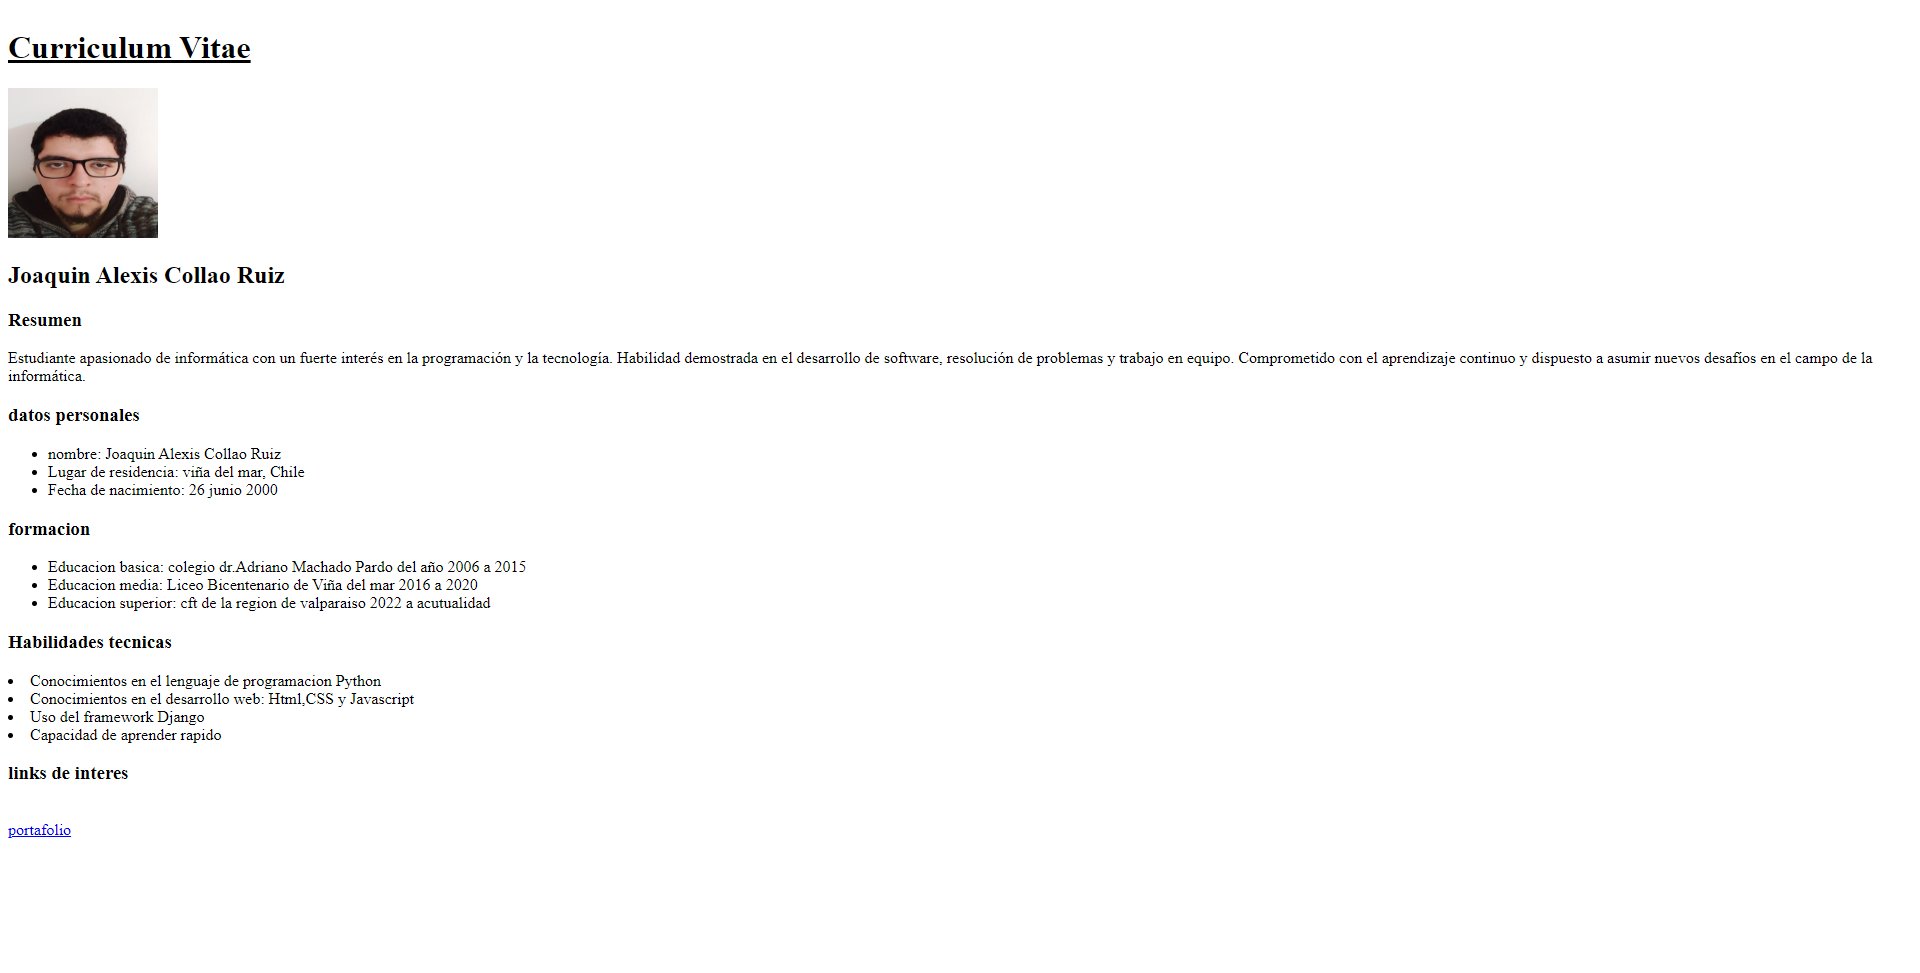
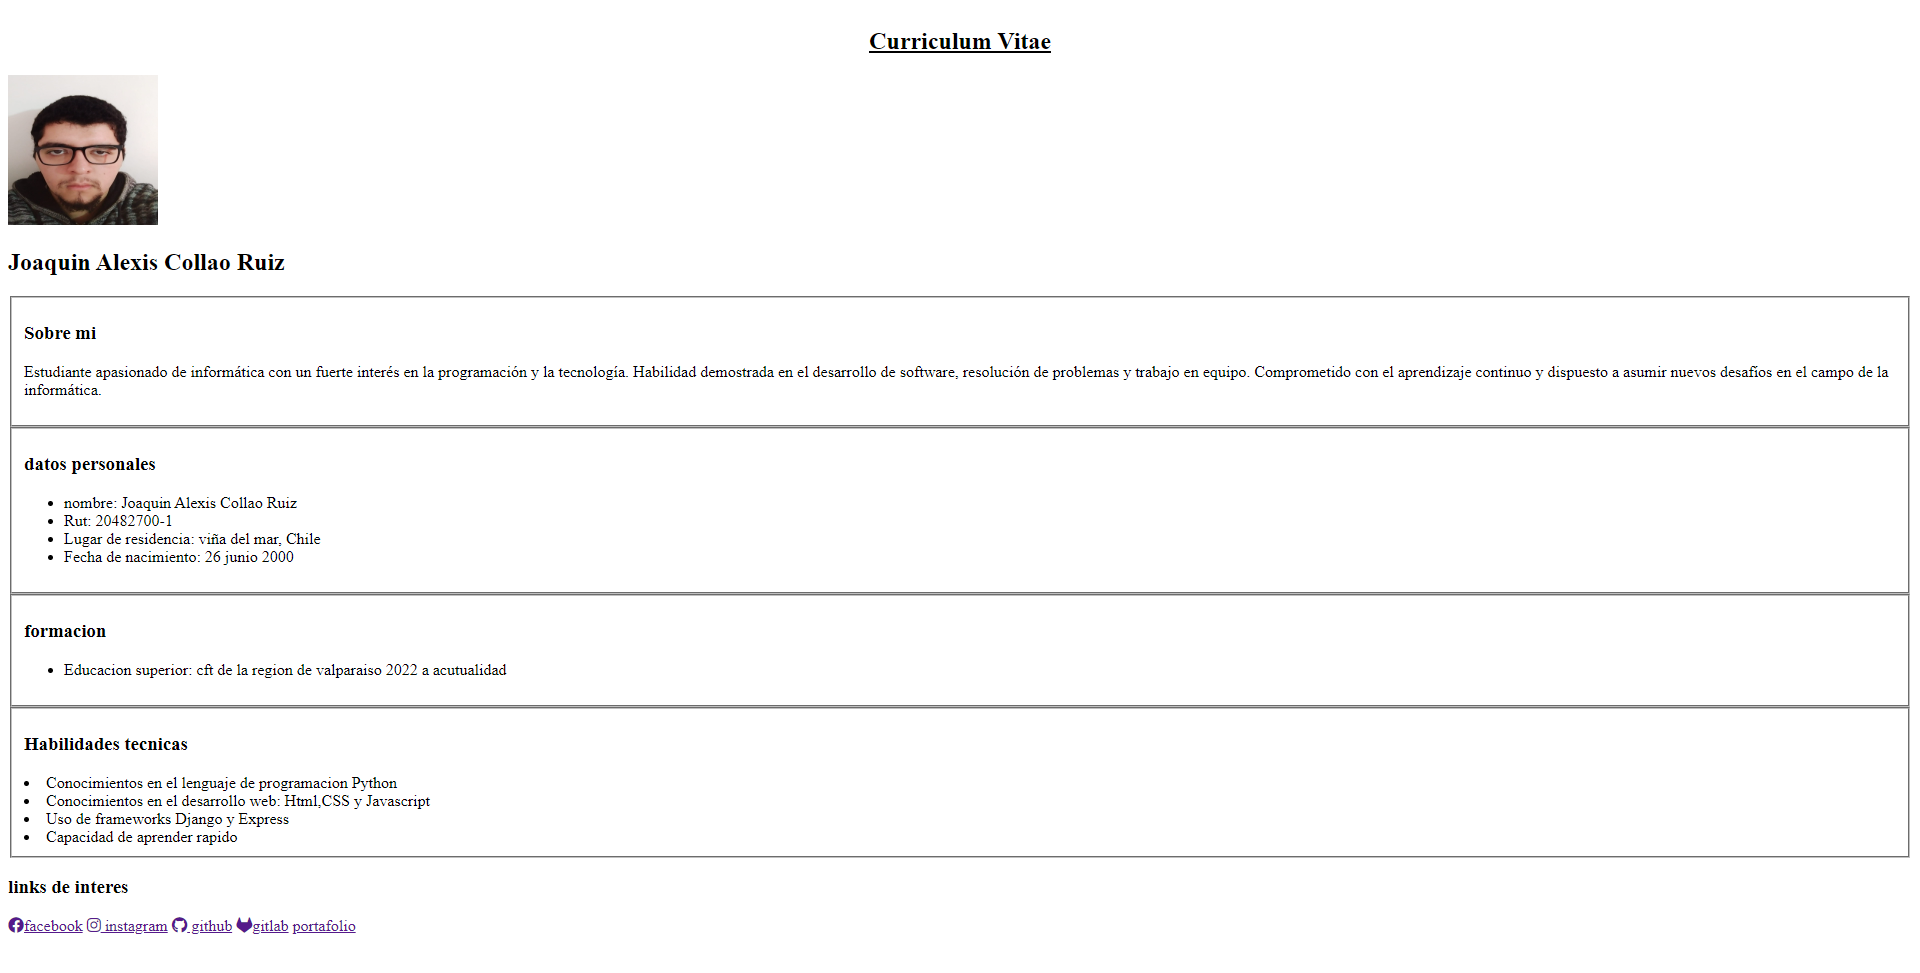
cambios

Changed region(s): [[0.0, 0.0308, 1.0, 0.9558], [0.4375, 0.0308, 0.5625, 0.0617]]

diff --git a/index.html b/index.html
@@ -3,7 +3,7 @@
   <head>
     <meta charset="UTF-8" />
     <meta name="viewport" content="width=device-width, initial-scale=1.0" />
-    <link rel="stylesheet" href="./assets/css/style.css">
+    <link rel="stylesheet" href="./assets/css/style.css" />
     <link
       rel="stylesheet"
       href="https://cdnjs.cloudflare.com/ajax/libs/font-awesome/6.4.2/css/all.min.css"
@@ -11,8 +11,15 @@
       crossorigin="anonymous"
       referrerpolicy="no-referrer"
     />
+    <link
+      href="https://cdn.jsdelivr.net/npm/bootstrap@5.3.2/dist/css/bootstrap.min.css"
+      rel="stylesheet"
+      integrity="sha384-T3c6CoIi6uLrA9TneNEoa7RxnatzjcDSCmG1MXxSR1GAsXEV/Dwwykc2MPK8M2HN"
+      crossorigin="anonymous"
+    />
     <title>Portafolio</title>
   </head>
+
   <body>
     <div class="contenedor-header">
       <header>
@@ -80,8 +87,9 @@
               <li>
                 <strong>Nombre Completo:</strong> Joaquín Alexis Collao Ruiz
               </li>
+              <li><strong>Rut:</strong> 20482700-1</li>
               <li><strong>Fecha de Nacimiento:</strong> 26/06/2000</li>
-              <li><strong>Telefono:</strong> +56 9 87663504</li>
+              <li><strong>Teléfono:</strong> +56 9 87663504</li>
               <li><strong>Email:</strong> Joaquincollao843@gmail.com</li>
             </ul>
           </div>
@@ -94,7 +102,7 @@
               </div>
               <div class="intereses">
                 <i class="fa-solid fa-headphones"></i>
-                <span>MUSICA</span>
+                <span>MÚSICA</span>
               </div>
               <div class="intereses">
                 <i class="fa-solid fa-dumbbell"></i>
@@ -111,10 +119,10 @@
             </div>
           </div>
         </div>
-        <button>
+        <!-- <button>
           Descargar CV <i class="fa-solid fa-download"></i>
           <span class="overlay"></span>
-        </button>
+        </button> -->
       </div>
     </section>
     <section class="habilidades" id="habilidades">
@@ -122,9 +130,9 @@
         <h2>habilidades</h2>
         <div class="fila">
           <div class="col">
-            <h3>Habilidades Tecnicas</h3>
+            <h3>Habilidades Técnicas</h3>
             <div class="habilidad">
-              <span>JavaScript</span>
+              <span><i class="fa-brands fa-js"></i> JavaScript</span>
               <div class="barra-habilidad">
                 <div class="progreso javascript">
                   <span>80%</span>
@@ -132,7 +140,7 @@
               </div>
             </div>
             <div class="habilidad">
-              <span>Python</span>
+              <span><i class="fa-brands fa-python"></i> Python</span>
               <div class="barra-habilidad">
                 <div class="progreso python">
                   <span>80%</span>
@@ -140,7 +148,10 @@
               </div>
             </div>
             <div class="habilidad">
-              <span>HTML & CSS</span>
+              <span
+                ><i class="fa-brands fa-html5"></i>
+                <i class="fa-brands fa-css3"></i> HTML & CSS</span
+              >
               <div class="barra-habilidad">
                 <div class="progreso htmlcss">
                   <span>70%</span>
@@ -148,7 +159,7 @@
               </div>
             </div>
             <div class="habilidad">
-              <span>Djngo</span>
+              <span>Django</span>
               <div class="barra-habilidad">
                 <div class="progreso django">
                   <span>65%</span>
@@ -164,7 +175,7 @@
               </div>
             </div>
             <div class="habilidad">
-              <span>SQL</span>
+              <span><i class="fa-solid fa-database"></i> SQL</span>
               <div class="barra-habilidad">
                 <div class="progreso sql">
                   <span>50%</span>
@@ -202,7 +213,7 @@
               <span>Dedicación</span>
               <div class="barra-habilidad">
                 <div class="progreso dedicacion">
-                  <span>89%</span>
+                  <span>90%</span>
                 </div>
               </div>
             </div>
@@ -226,6 +237,60 @@
                 </div>
               </div>
             </div>
+            <div class="col derecha">
+              <h2>Experiencia</h2>
+              <div class="item der">
+                <h4>scripts</h4>
+                <span class="casa">desarrollo de scripts</span>
+                <span class="fecha">2022-2024</span>
+                <p>
+                  Durante este período, adquirí habilidades sólidas en la
+                  creación de scripts utilizando Python. Mi enfoque principal
+                  fue el desarrollo de pequeños proyectos, entre los que destaca
+                  una calculadora científica. Estos proyectos me permitieron
+                  aplicar conceptos avanzados de programación y mejorar mis
+                  capacidades de resolución de problemas.
+                </p>
+                <div class="conectord">
+                  <div class="circulod"></div>
+                </div>
+              </div>
+              <div class="item der">
+                <h4>Full Stack Developer</h4>
+                <span class="casa">desarrollo de proyecto web</span>
+                <span class="fecha">2022-2023</span>
+                <p>
+                  Durante mi tiempo como Full Stack Developer, lideré un
+                  proyecto web emocionante y desafiante utilizando el framework
+                  Django. Mi papel incluyó la planificación, el diseño y la
+                  implementación de características clave del sitio web. Trabajé
+                  en estrecha colaboración con un equipo multifuncional para
+                  garantizar la entrega exitosa y la satisfacción del cliente.
+                </p>
+                <span class="elementos">Django, Boostrap, Sqlite, Jinja2 </span>
+                <div class="conectord">
+                  <div class="circulod"></div>
+                </div>
+              </div>
+              <div class="item der">
+                <h4>Full Stack Developer</h4>
+                <span class="casa">desarrollo de proyecto web</span>
+                <span class="fecha">2022-2023</span>
+                <p>
+                  En mi segundo proyecto como Full Stack Developer, utilicé el
+                  framework Express para crear una aplicación web dinámica. Esta
+                  experiencia me permitió expandir mi conocimiento en el
+                  desarrollo de aplicaciones web y mejorar mis habilidades en el
+                  manejo de rutas, controladores y bases de datos en un entorno
+                  Node.js.
+                </p>
+                <p><strong></strong></p>
+                <span class="elementos">Node.js, Express.js, MySQL, EJS</span>
+                <div class="conectord">
+                  <div class="circulod"></div>
+                </div>
+              </div>
+            </div>
           </div>
         </div>
       </div>
@@ -234,6 +299,7 @@
       <div class="contenido-seccion">
         <h2>PORTAFOLIO</h2>
         <div class="galeria">
+          
           <div class="proyecto">
             <img src="./assets/img/captura cv.png" alt="imagen curriculum" />
             <div class="overlay">
@@ -243,7 +309,10 @@
             </div>
           </div>
           <div class="proyecto">
-            <img src="./assets/img/landing page.png" alt="imagen landing page" />
+            <img
+              src="./assets/img/landing page.png"
+              alt="imagen landing page"
+            />
             <div class="overlay">
               <a
                 href="https://joaquinius.github.io/landing-page/"
@@ -299,7 +368,7 @@
               <ul>
                 <li>
                   <i class="fa-solid fa-mobile"></i>
-                  Telefono: +56 9 87663504
+                  Teléfono: +56 9 87663504
                 </li>
                 <li>
                   <i class="fa-solid fa-envelope"></i>
@@ -311,19 +380,25 @@
         </div>
       </div>
     </section>
-    
+
     <footer>
       <a href="#inicio" class="arriba">
         <i class="fa-solid fa-angles-up"></i>
       </a>
       <div class="redes">
         <a href=""><i class="fa-brands fa-facebook"></i></a>
-        <a href="https://www.instagram.com/joa_quito/" target="_blank"><i class="fa-brands fa-instagram"></i></a>
+        <a href="https://www.instagram.com/joa_quito/" target="_blank"
+          ><i class="fa-brands fa-instagram"></i
+        ></a>
         <a href=""><i class="fa-brands fa-linkedin"></i></a>
-        <a href="https://github.com/joaquinius" target="_blank"><i class="fa-brands fa-github"></i></a>
-        <a href="https://gitlab.com/joaquincollao843" target="_blank"><i class="fa-brands fa-gitlab"></i></a>
+        <a href="https://github.com/joaquinius" target="_blank"
+          ><i class="fa-brands fa-github"></i
+        ></a>
+        <a href="https://gitlab.com/joaquincollao843" target="_blank"
+          ><i class="fa-brands fa-gitlab"></i
+        ></a>
       </div>
-      
+
       <p>Gracias por su visita</p>
     </footer>
     <script src="./assets/js/script.js"></script>

diff --git a/assets/css/style.css b/assets/css/style.css
@@ -423,7 +423,7 @@ html {
 .curriculum .fila .izquierda {
   border-right: 2px solid #252a2e;
 }
-.curriculum .fila .izquierda {
+.curriculum .fila .derecha {
   border-left: 2px solid #252a2e;
 }
 .curriculum .fila .item {
@@ -447,24 +447,26 @@ html {
   color: #efb810;
   margin-bottom: 10px;
 }
-/*
-curriculum .fila .item p {
+.curriculum .fila .item .elementos {
+  display: block;
+  color: #efb810;
+  margin-bottom: 10px;
+}
+.curriculum .fila .item p {
   line-height: 24px;
 }
-*/
 .curriculum .fila .izq {
   border-right: 2px solid #efb810;
   margin-right: 20px;
 }
-
-/* .curriculum .fila .der{
-    border-left: 2px solid #efb810;
-    margin-left: 20px ;
-   } */
+.curriculum .fila .der {
+  border-left: 2px solid #efb810;
+  margin-left: 20px;
+}
 .curriculum .fila .item .conectori {
   height: 2px;
   background-color: #efb810;
-  width: 45px;
+  width: 47px;
   position: absolute;
   top: 50%;
   right: -47px;
@@ -480,14 +482,13 @@ curriculum .fila .item p {
   position: relative;
   bottom: 4px;
 }
-/* 
 .curriculum .fila .item .conectord {
   height: 2px;
   background-color: #efb810;
-  width: 45px;
+  width: 47px;
   position: absolute;
   top: 50%;
-  right: -47px;
+  left: -47px;
   z-index: 5;
 }
 .curriculum .fila .item .conectord .circulod {
@@ -496,11 +497,11 @@ curriculum .fila .item p {
   width: 10px;
   border-radius: 50%;
   background-color: #efb810;
-  float: right;
+  float: left;
   position: relative;
   bottom: 4px;
-} */
-/**/
+}
+
 .portafolio {
   background-color: #252a2e;
   color: #fff;
@@ -716,15 +717,17 @@ footer .arriba {
   .sobremi .fila .col {
     width: fit-content;
   }
-  .habilidades .fila {
+
+  .skills .fila {
     display: block;
   }
-  .habilidad .col {
+  .skills .fila .col {
     width: 100%;
   }
-  .habilidades .fila .col .barra-habilidad {
+  .skills .fila .col .barra-habilidad {
     width: 100%;
   }
+
   .curriculum .fila {
     display: block;
   }
@@ -734,14 +737,15 @@ footer .arriba {
   .curriculum .fila .derecha {
     margin-left: 20px;
   }
-  .portafolio .galeria {
+
+  .portfolio .galeria {
     display: block;
     width: 100%;
   }
-  .portafolio .galeria .proyecto {
+  .portfolio .galeria .proyecto {
     max-width: 100%;
   }
-  .portafolio .galeria .proyecto img {
+  .portfolio .galeria .proyecto img {
     width: 100%;
   }
   .contacto .fila {
@@ -749,9 +753,5 @@ footer .arriba {
   }
   .contacto .fila .col {
     width: 100%;
-  }
-  .contacto .fila .col .info {
-    margin-top: 30px;
-    width: 80%;
   }
 }
